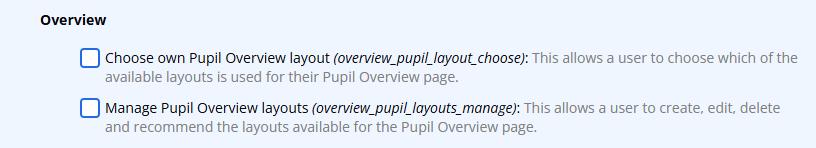
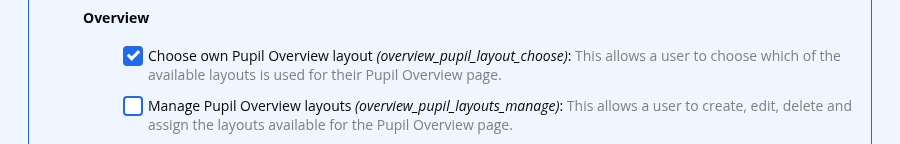
CHANGED: Re-capture the Overview permissions with the corrected wording
The old image described Manage Pupil Overview layouts as letting a user
"create, edit, delete and recommend the layouts". Recommendations are gone and
the build now reads "assign", so the manual was showing wording that no longer
exists. Captured against General Teacher, with the choose-own permission ticked
and the manage permission left alone, matching the advice in the surrounding
text.

diff --git a/TODO.md b/TODO.md
@@ -45,16 +45,6 @@ default**.
 
 Goes in *Seeing and Changing Who Uses What*.
 
-### 2. `profile-overview-customisation-16.png` — re-capture the Overview permissions
-
-The capture in the manual is one build out of date: it describes **Manage Pupil Overview layouts**
-as letting a user "create, edit, delete and recommend the layouts", but recommendations are gone and
-the permission now reads "create, edit, delete and **assign** the layouts". Re-capture the same crop,
-keeping the filename, once the demonstration server is on a build with the corrected wording.
-
-While you are there, tick **Choose own Pupil Overview layout** and leave **Manage Pupil Overview
-layouts** unticked, matching the advice in the text that most teachers get only the first.
-
 ---
 
 ## Two-Factor Authentication (`docs/two-factor-authentication.md`,
